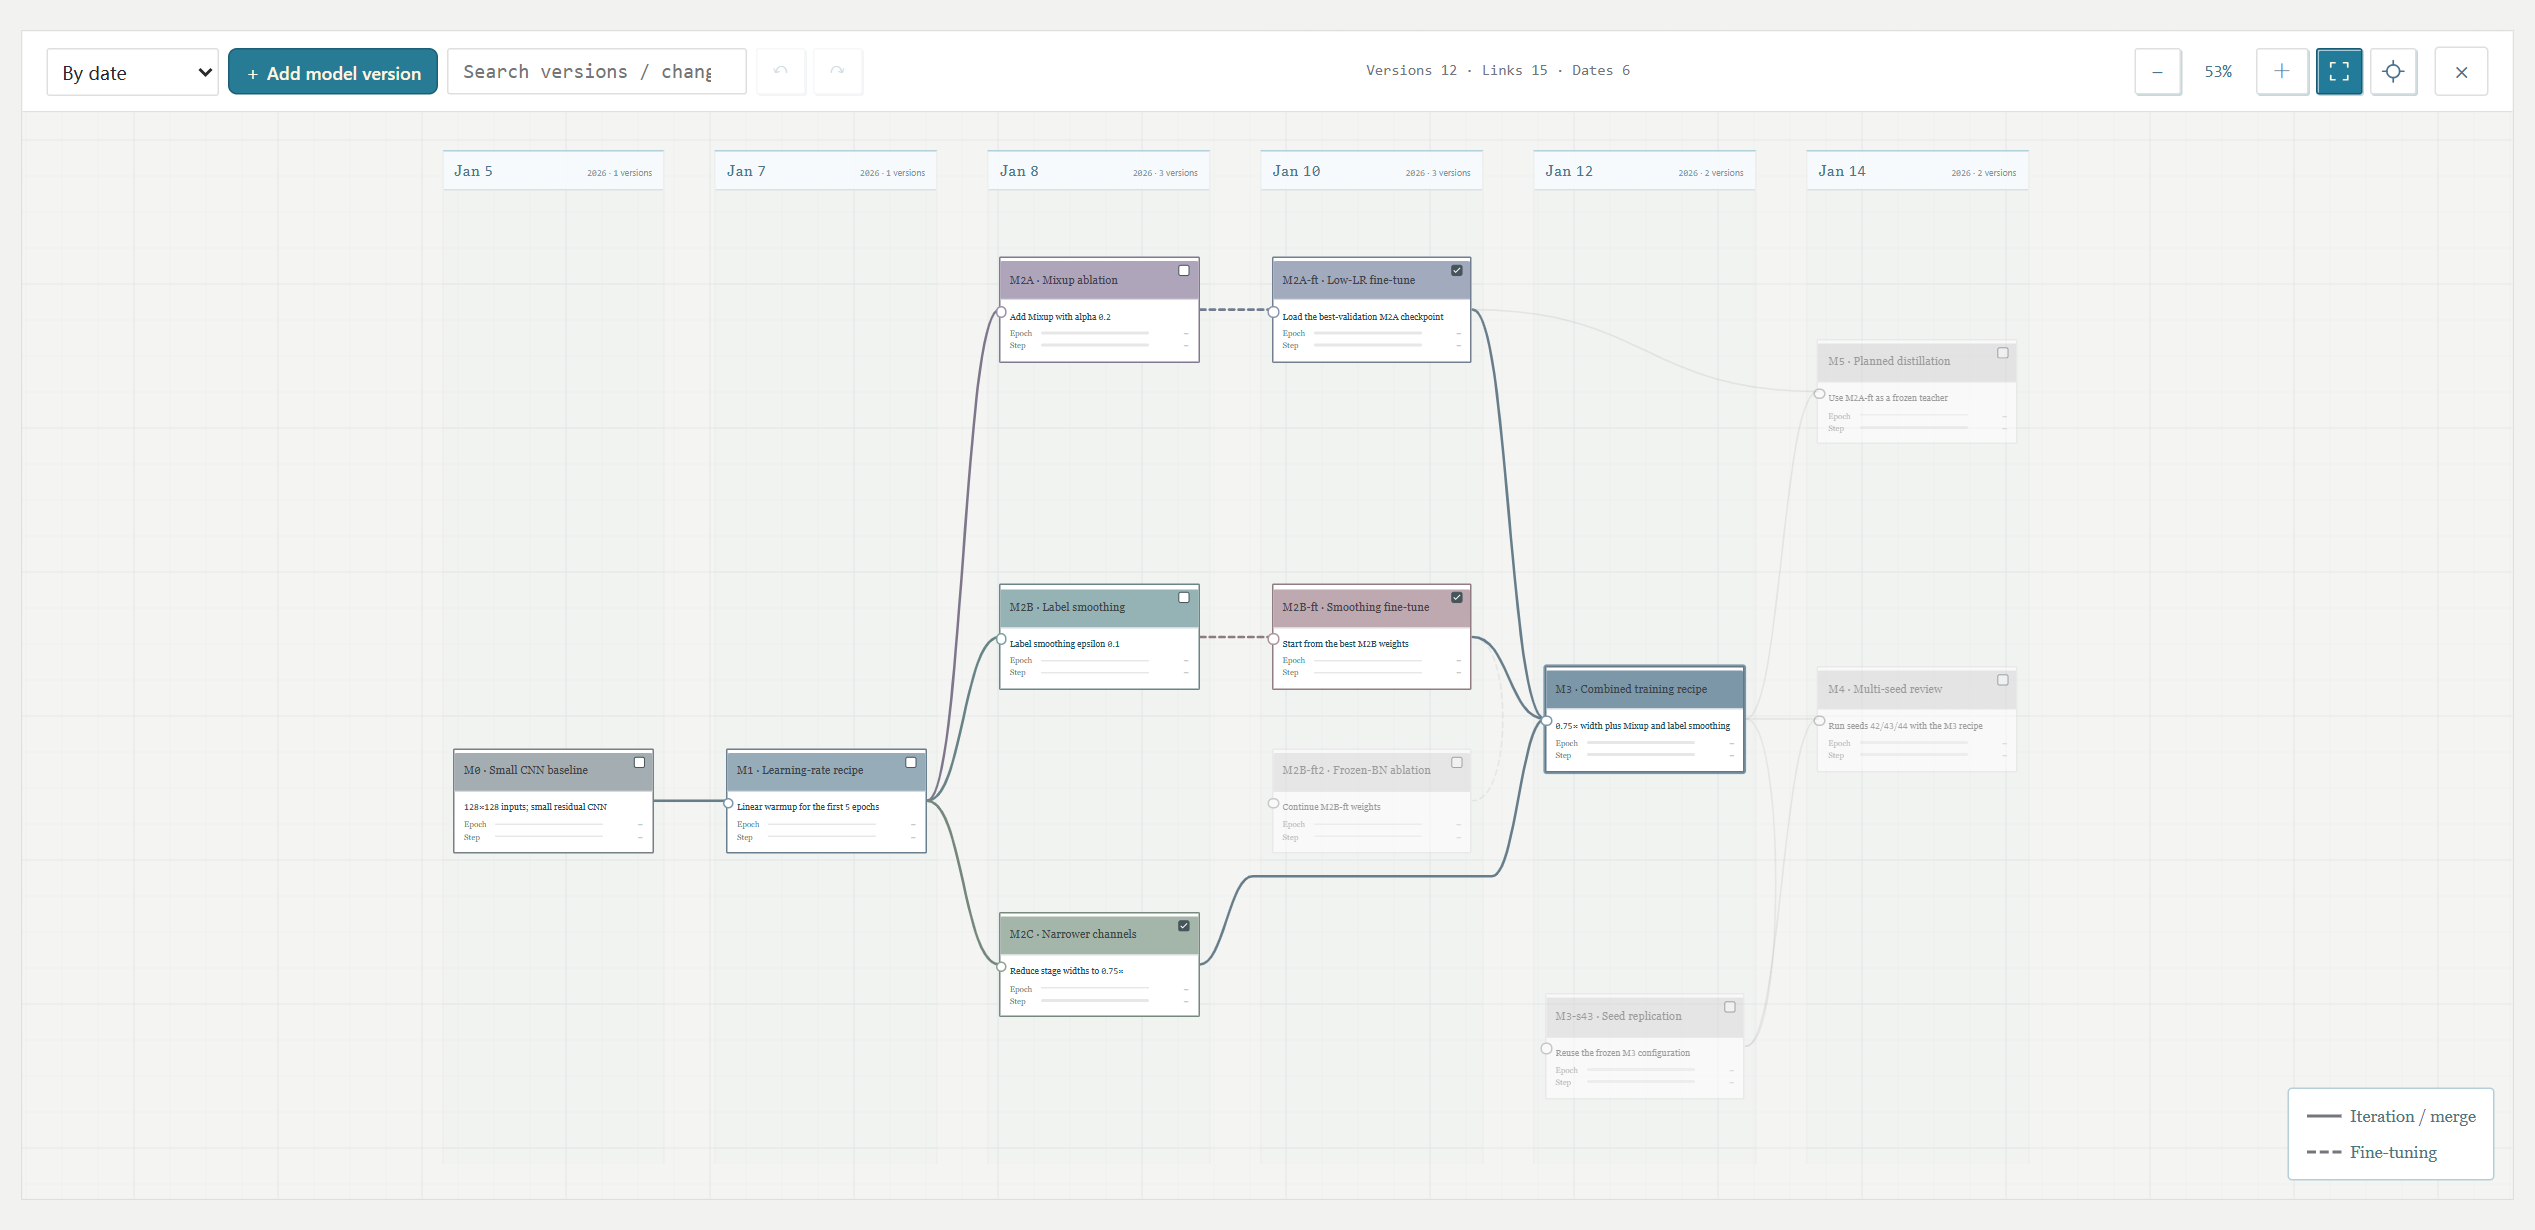
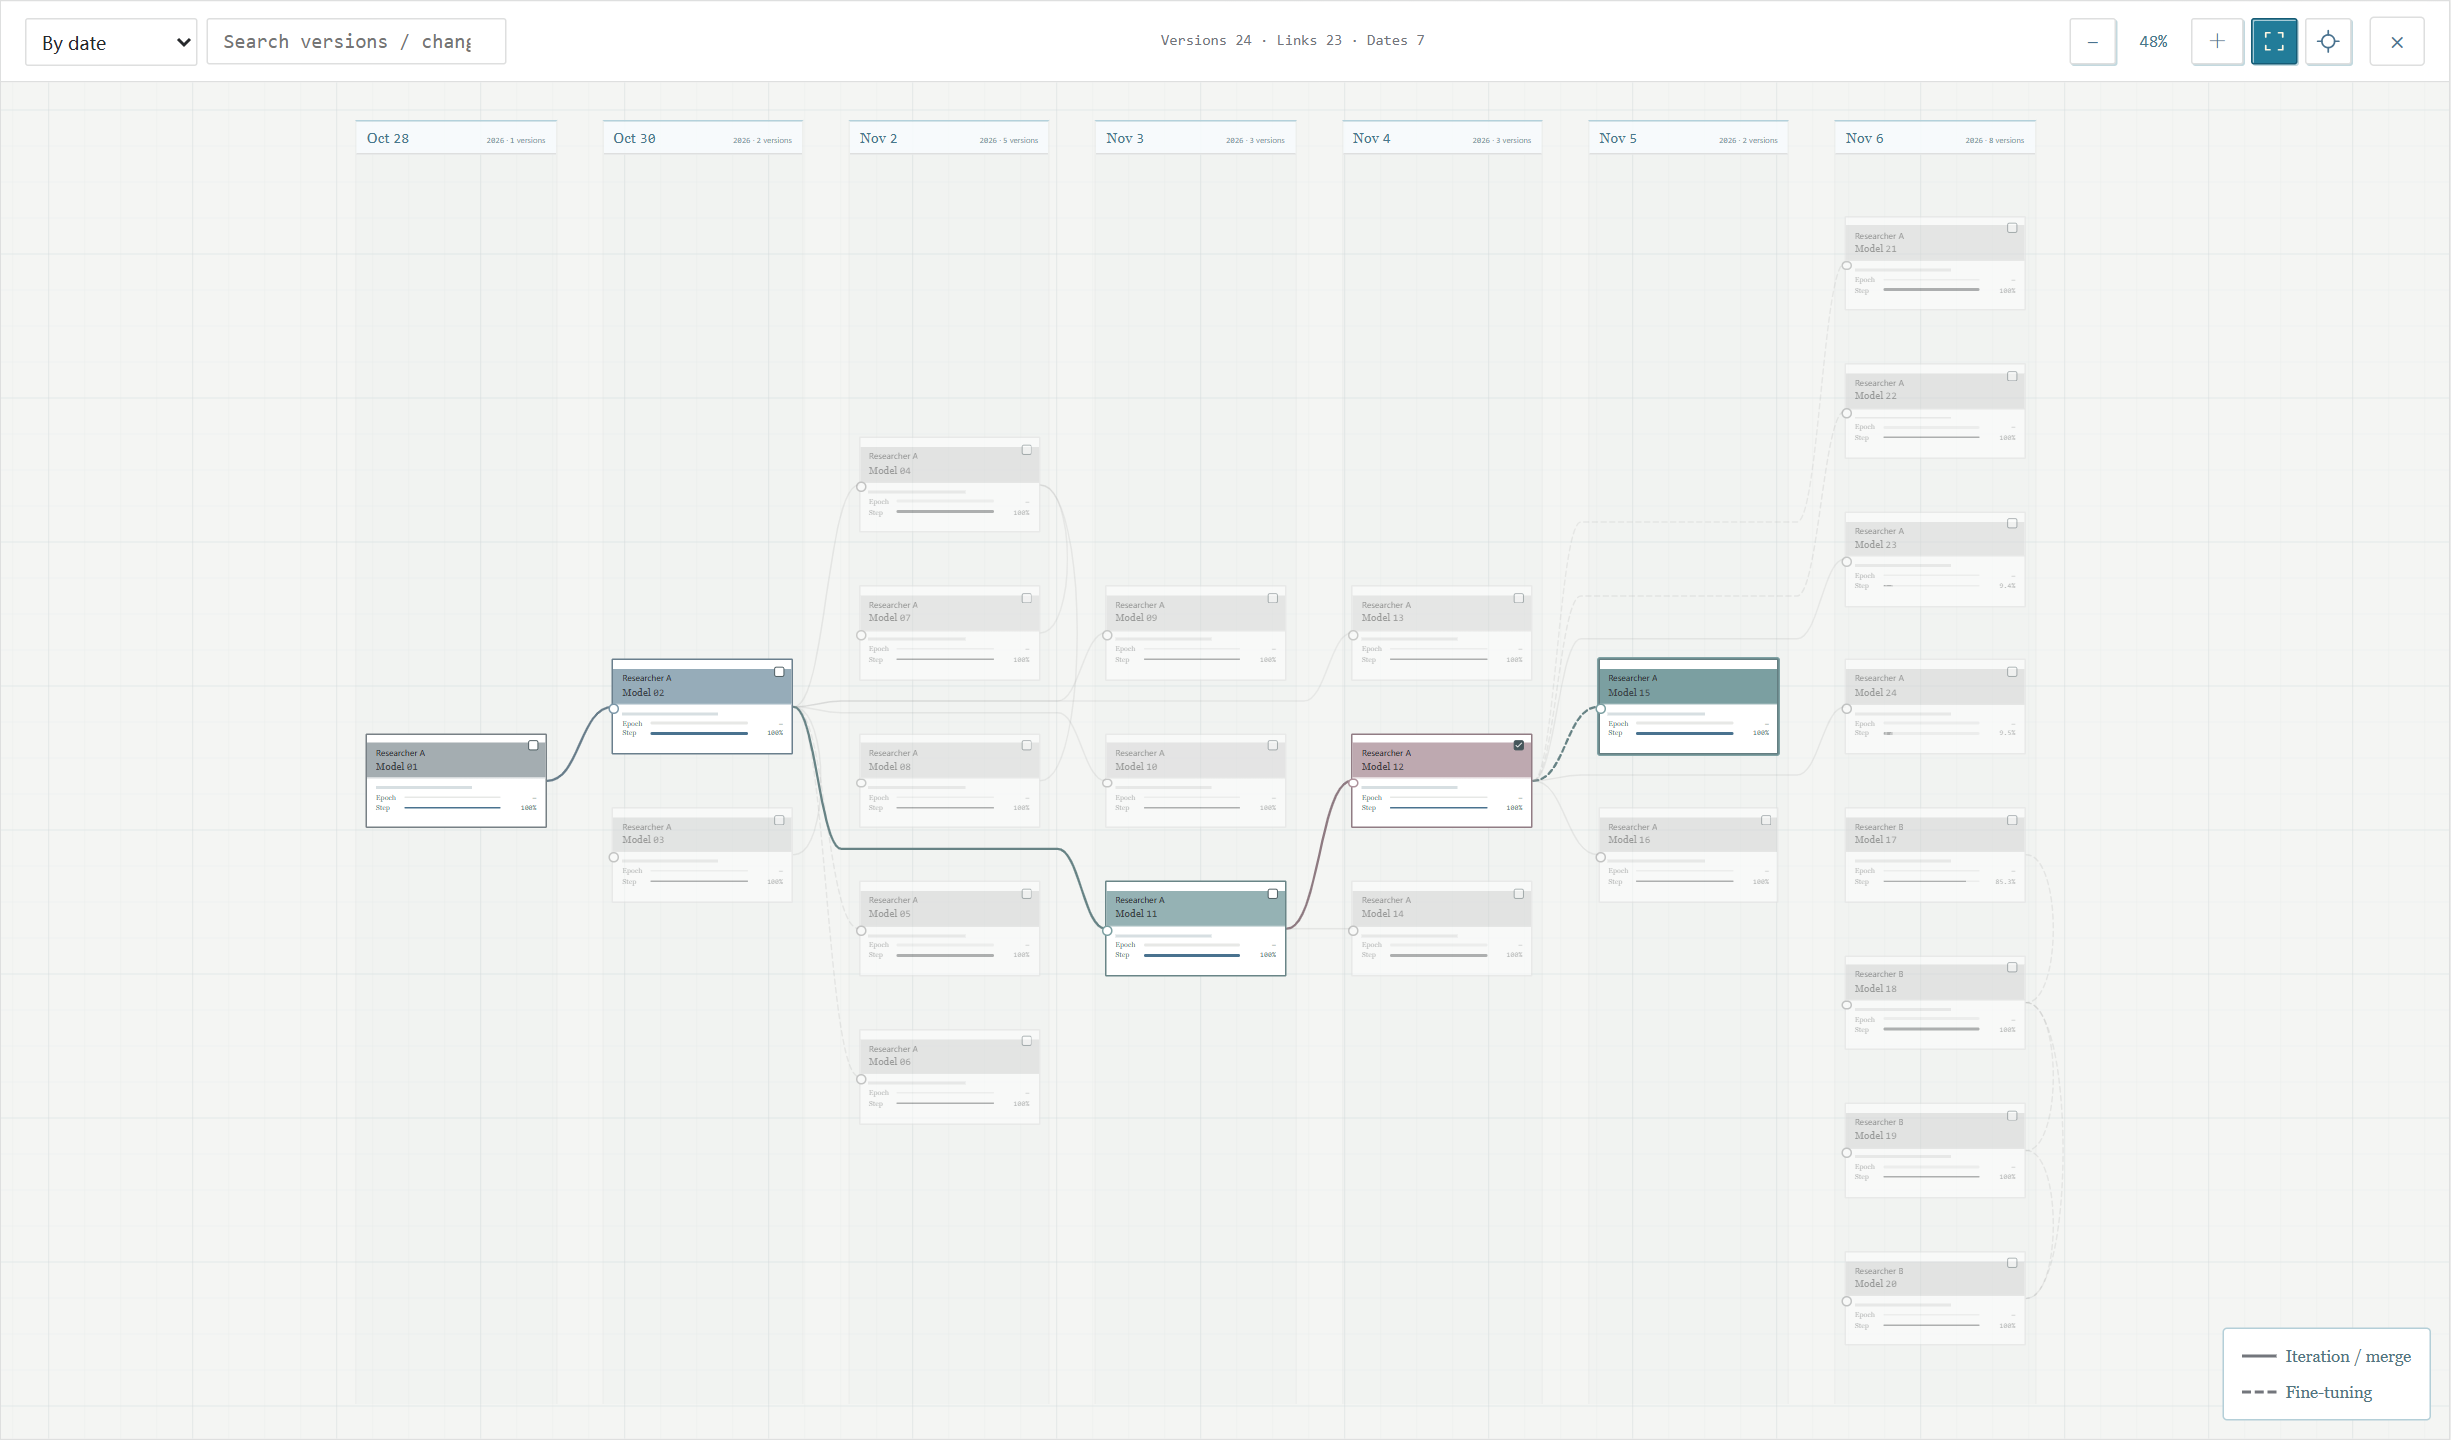
Illustrate shared model lineage with anonymized live research screenshots

diff --git a/README.md b/README.md
@@ -4,9 +4,9 @@
 
 **TorchMap is a model version map your whole team maintains together.** When someone tries a new idea, they branch a card from the model they started with and record what changed. Each card owns its training runs, configurations, checkpoints, and the validation and test results that come back later. When someone asks “Which model did that result come from?”, you can both point to the same card.
 
-![A 12-version research map with the three branches feeding the selected M3 model highlighted](docs/assets/torchmap-lineage.png)
+![Live team map showing 24 model cards and the ancestry of Model 15](docs/assets/torchmap-lineage.png)
 
-Follow the [fictional project](examples/branching.en.json) above. Three experiments branch from M1 to try Mixup, label smoothing and a narrower network. Two branches fine-tune their own checkpoints. M3 then combines ideas from all three. Select M3 to trace those decisions. The Frozen-BN experiment stays visible off the highlighted path, so the next teammate can see what else was tried. Solid lines trace design changes and merges; dashed lines trace fine-tuning from existing weights.
+This is a snapshot of a working research project: **24 model versions, 23 relationships and two contributors across seven experiment dates**. Follow the highlighted path to Model 15. The dashed link from Model 12 marks the checkpoint continuation; the other branches stay on the same map, including two training runs still in progress at capture time. Names and change notes have been anonymized for publication.
 
 ### What can you find on a model card? 🔬
 
@@ -17,7 +17,11 @@ Follow the [fictional project](examples/branching.en.json) above. Three experime
 | How does this compare with our other branch? | Double-click the card to compare training curves with its direct parents. Tick another model on the map to include it. |
 | We tested the 40K checkpoint yesterday. Where does that score go? | Its validation and test results link back to the producing run and plot at **40K**. The dataset, evaluation protocol and weight variant travel with the result. |
 
-![Loss curves for a parent and a resumed branch, aligned by training step](docs/assets/torchmap-curves.png)
+The two views below follow the same pair of cards. Model 15 joins the training history partway through Model 12’s run. Switch to Test to see how their saved checkpoints compare. The trajectories are real; exact readings and dataset labels are hidden.
+
+![Live training loss and learning-rate history for Model 12 and Model 15](docs/assets/torchmap-curves.png)
+
+![Live checkpoint test scores for the same pair of models](docs/assets/torchmap-test.png)
 
 ### Let Codex keep the map up to date 🛠
 

diff --git a/README.zh-CN.md b/README.zh-CN.md
@@ -4,9 +4,9 @@
 
 **TorchMap 是团队共用的模型版本路线图。** 每当有人尝试一个新想法，就从对应的上游模型拉出一张卡，写下谁改了什么。这个版本的配置、每次训练的曲线和权重，以及后来补跑的验证、测试，都挂在这张卡下面。下次组会有人问「这个结果是从哪版改出来的？」，点一下地图就能一起看。
 
-![12 个模型版本的共享路线图，选中 M3 后高亮三条汇入它的实验分支](docs/assets/torchmap-lineage.png)
+![线上团队路线图，展示 24 张模型卡和 Model 15 的上游路线](docs/assets/torchmap-lineage.png)
 
-上图是[可复用的虚构项目](examples/branching.zh-CN.json)。三位同事可以从同一个 M1 出发，分别试 Mixup、标签平滑和更窄的网络。两条分支又从各自的权重做了微调，最后 M3 汇集三条路线的改动。点选 M3，就能顺着高亮路线找回这些决策；旁边试过的 Frozen-BN 分支也留在图上，下一位同事接手时看得见。实线表示设计迭代或合并，虚线表示从已有权重微调。
+这是团队线上项目的一个工作截面：**两位成员、7 个实验日期、24 个模型版本、23 条关系**。沿高亮路线可以找到 Model 15 的来历：它从 Model 12 的权重继续训练，所以两张卡之间是虚线。其他探索保留在旁边；截图时，右侧还有两版正在训练。成员和模型使用代号，具体改动已遮盖。
 
 ### 一张模型卡能回答什么？ 🔬
 
@@ -17,7 +17,11 @@
 | 这两个 loss 是同一轮实验吗？ | 双击卡片进入训练页，默认与直接上游对比，也能在地图上勾选其他版本。 |
 | 昨天补测的 40K 权重，成绩记在哪？ | 验证和测试分别挂回产生权重的 run，曲线按 **40K** 对齐。数据集、评测口径和权重类型随结果保留。 |
 
-![父版与续训分支的训练曲线，续训曲线从实际继承权重的步数开始](docs/assets/torchmap-curves.png)
+下面两张图跟的是地图上的同一对模型。先看训练：Model 15 从 Model 12 的中途接上，两条学习率曲线随后分开。再切到测试页，就能比较这两版各个 checkpoint 的实际表现。曲线保留了真实走势，精确读数和数据集名称已隐藏。
+
+![线上项目中 Model 12 与 Model 15 的训练损失和学习率](docs/assets/torchmap-curves.png)
+
+![同一对模型在不同检查点的线上测试结果](docs/assets/torchmap-test.png)
 
 ### 让 Codex 帮你维护这张图 🛠
 
